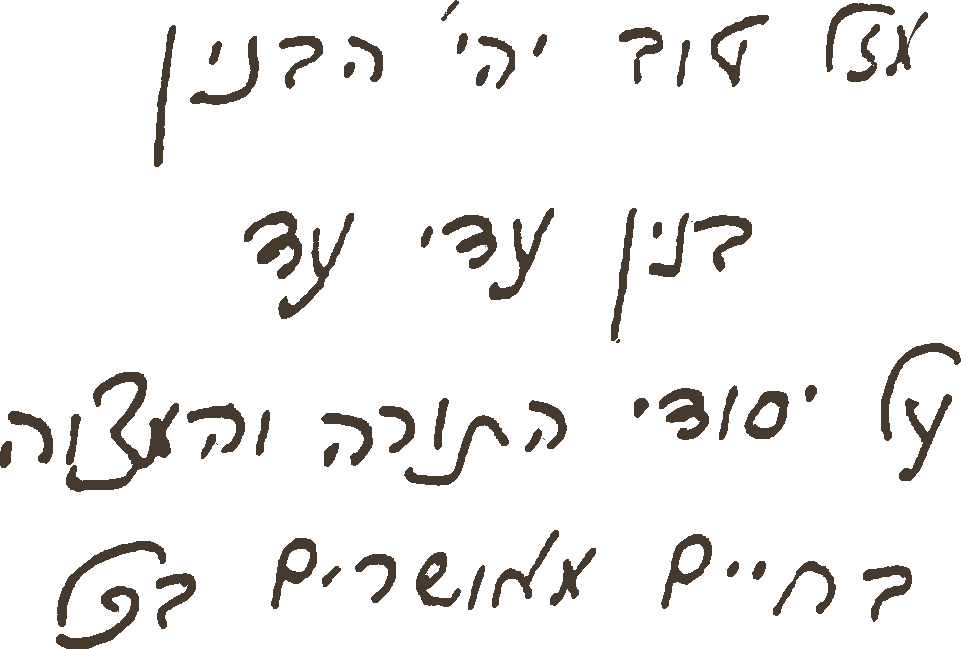
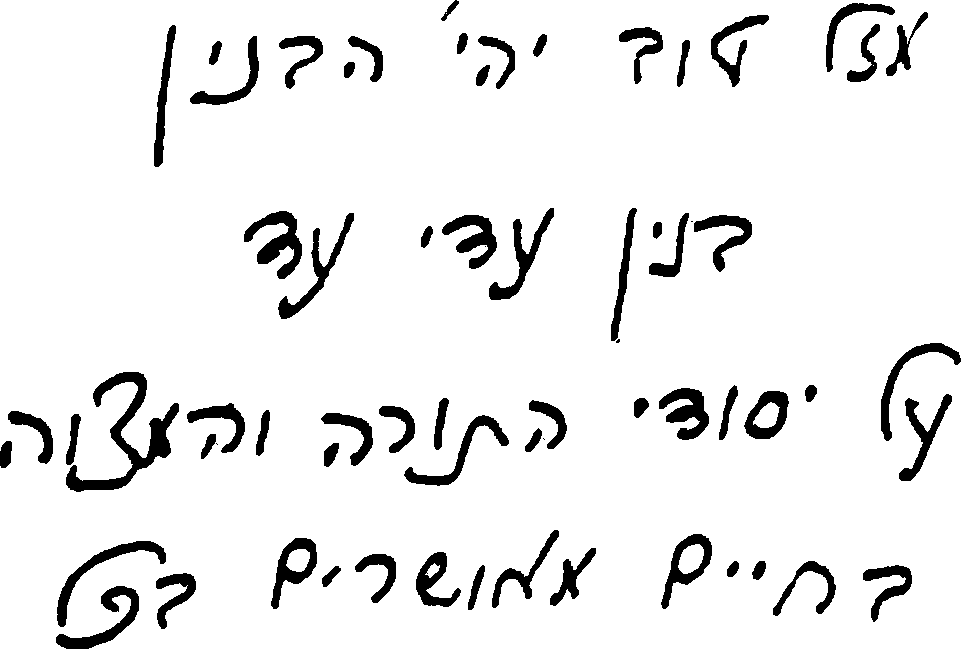
Dati variant: follow the family's own Chabad format, and treat the Rebbe's ksav yad as a signature
The reference Ronen sent is not a style sample - the card is signed הורי הכלה
רונן ונירית פלד-חדד, i.e. it is Shira's invitation, his older daughter, June
2026. Same family, so the format is the house standard and we match it.

- names: מיכל עב"ל אופיר (bride first, עב"ל) exactly as שירה עב"ל שלמה
- בעזה"י in the corner instead of ב"ה
- Hebrew date above the Latin one and in the אור ל form, as he asked on 15.07:
  יום שלישי, אור לכ"ד בחשון ה'תשפ"ז - the chuppah is after nightfall, so the
  Hebrew day has already turned from כ"ג to כ"ד
- Latin date as plain 03.11.2026, venue as בגן האירועים
- no hearts anywhere in the dati variant (his card has none)
- the dati wording is much longer, so the whole hero block was running into the
  monstera; dati-specific sizing keeps it clear

The Rebbe's blessing is reproduced as-is, like a signature: the asset had been
tinted brown (70/58/46) and set to 88% opacity. Restored to his own black ink
at full strength, edge-hardened to undo a soft upscale (letterforms untouched),
and shown at 340px - below the scan's native width - so it stays crisp.

diff --git a/index_green.html b/index_green.html
@@ -162,6 +162,10 @@
   body.dati .venue { margin-top: .55rem; }
   body.dati .reception { margin-top: .35rem; }
   body.dati .seeyou { margin-top: .7rem; }
+  /* Ronen's reference card has no hearts - keep the rule, drop the glyph */
+  body.dati .rule-heart { display: none; }
+  body.dati .hero .date { letter-spacing: .02em; }
+  body.dati .rule-line  { width: 26%; }
   body.dati .parents { margin-top: .8rem; }
   body.dati .bouquet { margin-top: 3svh; }
   .parents { margin-top: 2rem; display: flex; justify-content: center; gap: 2.8rem; }
@@ -322,7 +326,9 @@
 
   /* ---------- rebbe blessing (dati) ---------- */
   .blessing { text-align: center; padding: 3.5rem 1.5rem 2.5rem; }
-  .bl-img { width: min(78vw, 480px); opacity: .88; }
+  /* the Rebbe's ksav yad kodesh is reproduced as-is, like a signature:
+     no tint, no recolour, no opacity - his own ink, unchanged */
+  .bl-img { width: min(62vw, 340px); }   /* below the scan's native size, so it stays crisp */
   .bl-caption {
     margin-top: 1.4rem; color: var(--gold); font-size: .8rem; letter-spacing: .22em;
     font-family: "Frank Ruhl Libre", serif;
@@ -378,6 +384,17 @@
   body.nl .hero .parent-label { font-size: 2.4cqw !important; white-space: nowrap; }
   body.nl .hero .parent-names { font-size: 2.8cqw !important; }
   body.nl .hero .seeyou       { letter-spacing: .1em; }
+  /* the dati wording is much longer, so the block grows down into the leaf */
+  body.dati .hero .invite1 { font-size: 3.5cqw !important; }
+  body.dati .hero .invite2 { font-size: 3.1cqw !important; }
+  body.dati .hero .pasuk   { font-size: 3.0cqw !important; }
+  body.dati .hero .aye     { font-size: 2.9cqw !important; margin-top: 1.6cqw; }
+  body.dati .hero .names   { font-size: 8.4cqw !important; margin-top: 3cqw; }
+  body.dati .hero .date    { font-size: 5.8cqw !important; margin-top: 2.4cqw; }
+  body.dati .hero .hebdate { font-size: 3.1cqw !important; }
+  body.dati .hero .venue   { font-size: 3.7cqw !important; margin-top: 3.4cqw; }
+  body.dati .hero .parents { margin-top: 4.5cqw !important; padding-right: 11cqw; gap: 4cqw !important; }
+  body.dati .hero .rule, body.dati .hero .seeyou-wrap { padding-right: 11cqw; }
   body.nl .bsd-fixed          { display: none; }   /* Dutch guests: no בס״ד */
   .hero .parent-label { font-size: 2.7cqw !important; letter-spacing: .12em; }
   .hero .parent-names { font-size: 3.2cqw !important; line-height: 1.45; white-space: nowrap; }
@@ -419,7 +436,7 @@
 
 <!-- HERO -->
 <section class="hero">
-    <div class="bsd-fixed heb">ב״ה</div>
+    <div class="bsd-fixed heb" data-i18n="bsd">ב״ה</div>
     <div class="hero-text">
     
     <div class="invite1 fade-up heb" data-i18n="invite1">מתרגשים להזמינכם</div>
@@ -428,7 +445,7 @@
     <div class="names fade-up heb" data-i18n="names">מיכל <span class="amp">&</span> אופיר</div>
     <div class="pasuk fade-up heb" hidden>קוֹל שָׂשׂוֹן וְקוֹל שִׂמְחָה, קוֹל חָתָן וְקוֹל כַּלָּה</div>
     <div class="aye fade-up heb" hidden>שתתקיים אי״ה בשעה טובה ומוצלחת</div>
-    <div class="date fade-up">3 . 11 . 26</div>
+    <div class="date fade-up" data-i18n="date">3 . 11 . 26</div>
     <div class="hebdate fade-up heb" data-i18n="hebdate">כ״ג בחשון תשפ״ז</div>
     <div class="venue fade-up heb" data-i18n="venue">״ביער״ · חדרה</div>
     <div class="reception fade-up heb" data-i18n="reception">קבלת פנים 19:00 · חופה 20:30</div>
@@ -570,7 +587,16 @@
   };
   // ---- religious (dati) variant — same page, ?lang=dati ----
   const DATI = {
-    bsd: 'בעזה״ת',
+    bsd: 'בעזה״י',
+    // Shira's card (Ronen's older daughter, June 2026) reads שירה עב״ל שלמה -
+    // bride first, עב״ל. Same family, same house format.
+    names: 'מיכל <span class="amp">עב״ל</span> אופיר',
+    date: '03.11.2026',
+    venue: 'בגן האירועים ״ביער״ · חדרה',
+    // Ronen, 15.07: the date must read "אור ל..." and Hebrew must sit above Latin.
+    // 3.11.2026 is a Tuesday; the chuppah is after nightfall, so the Hebrew day
+    // has already turned over from כ״ג to כ״ד בחשון.
+    hebdate: 'יום שלישי, אור לכ״ד בחשון ה׳תשפ״ז',
     invite1: 'בלב מלא שמחה והודיה לה׳ יתברך על כל הטוב אשר גמלנו',
     invite2: 'אנו מתכבדים להזמינכם להשתתף עמנו בשמחת כלולות ילדינו היקרים',
     reception: 'קבלת פנים · 19:00 · חופה וקידושין · 20:30'
